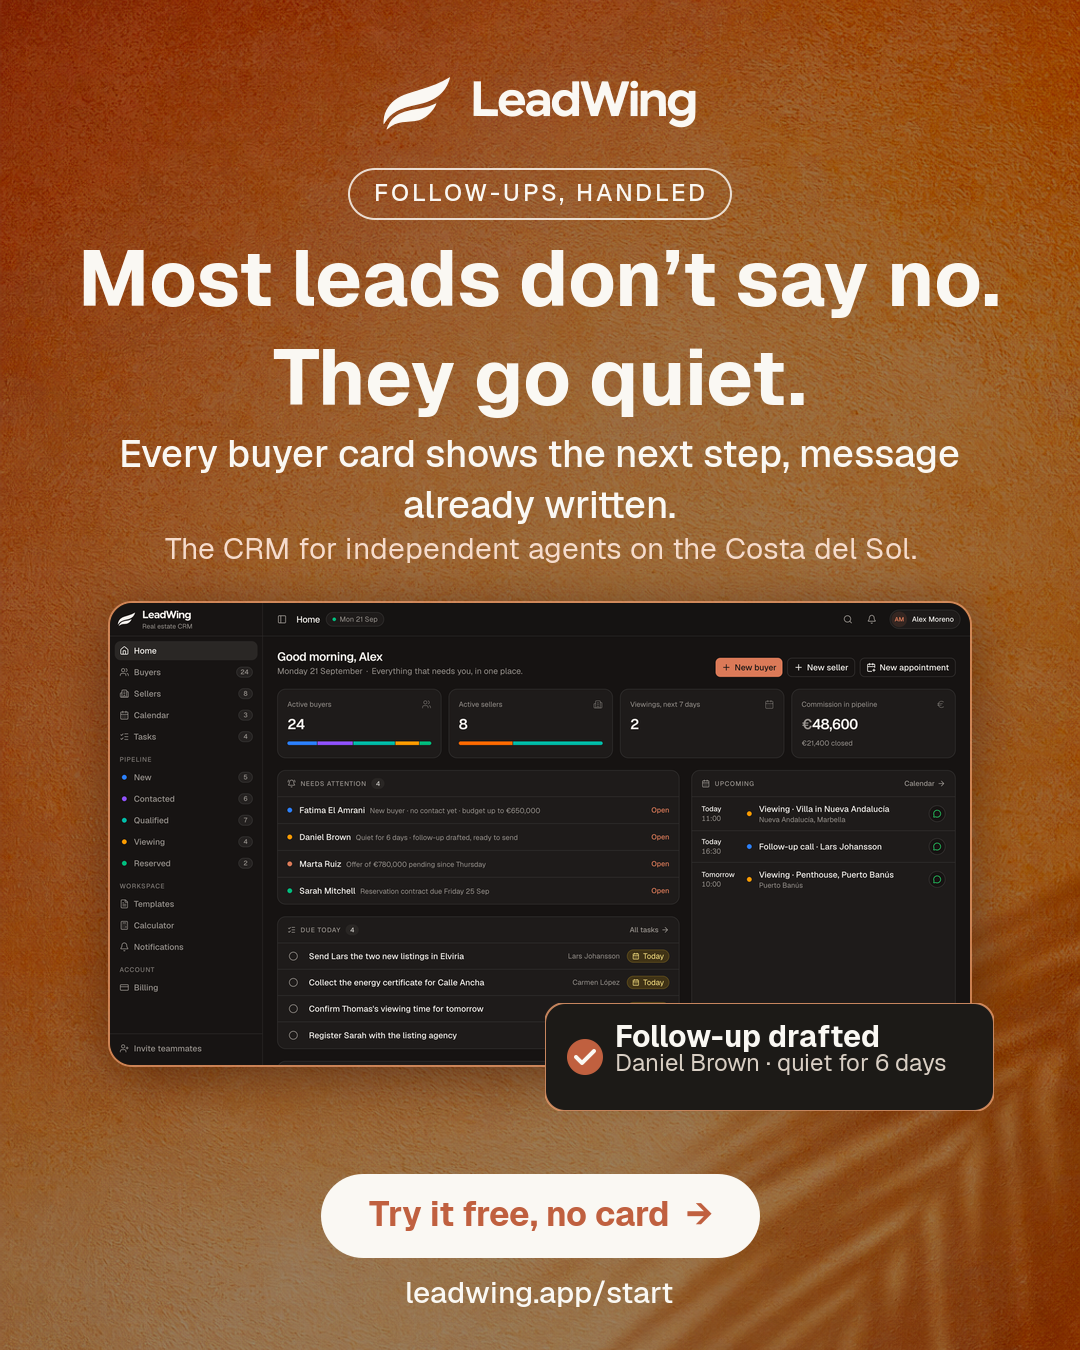
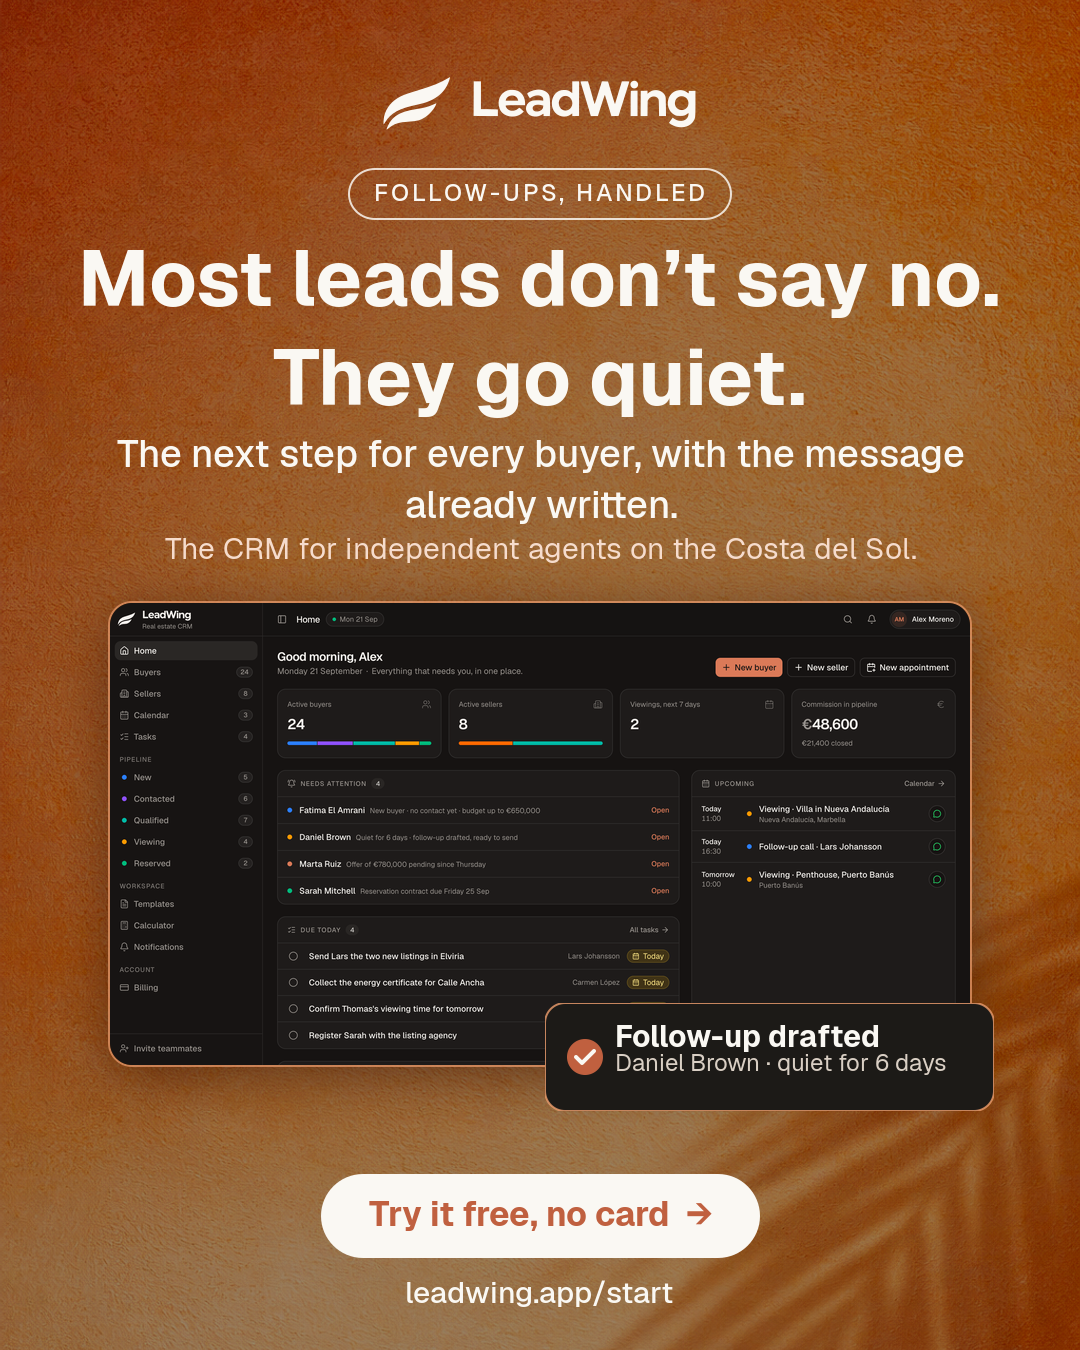
marketing: 2026-09-23 mono digest card, no 'card' in copy
Claude-Session: https://claude.ai/code/session_01C41KF2jdXme4h4ZRPKkHFj

Changed region(s): [[0.0917, 0.3111, 0.8861, 0.4044]]

diff --git a/output/facebook/posts/PLAYBOOK.md b/output/facebook/posts/PLAYBOOK.md
@@ -17,6 +17,8 @@ Read this first on every run. It is the operator's memory: update it when a deci
 - Claims never to make: Google Calendar sync (it is a one-way ICS feed), automatic portal lead capture, "one CRM for every agency", reminders while the app is closed, WhatsApp integration.
 - Product facts: Free = 10 clients, forever, no card. Pro = €29/month or €276/year. Founding = €19/month or €180/year for life for the first 20 paying agents ("Founding Agent #n"). Excel/CSV import with preview and one-click undo; export on every plan; one client card with budget, viewings, offers, documents; a drafted follow-up on every buyer card; tasks; calendar of viewings; templates.
 - Voice: plain, warm, specific, no hype, at most one emoji, no fake testimonials, no invented numbers. Replies in the language the person used.
+- Banned word (founder, 23 Sep): **"card"** — "buyer card", "client card", "every card" are internal product jargon and mean nothing to an agent. Say "every buyer", "each client", "for every buyer, the next step and the message already written". ("No card" meaning no credit card is fine.) The 19 Sep and 23 Sep posts already used it publicly; do not repeat it anywhere new.
+- Digest look (founder, 23 Sep): digest cards must NOT share the product creatives' terracotta background. They are white, black type, hairlines, minimal: `compose-digest.mjs` with `"theme": "mono"` in the spec. Product posts and ads keep the brand background + real screenshot.
 
 ## News digests
 - Search: `GET https://www.searchapi.io/api/v1/search` with `engine=google_news`, `gl=es`, `time_period=last_week`, `link=resolved`, once with `hl=en` and once with `hl=es`; queries like "Costa del Sol property", "Marbella real estate", "Málaga vivienda precios", "alquiler turístico Andalucía", "Estepona Mijas Fuengirola Benalmádena vivienda". Send the key as `Authorization: Bearer`. At most 10 searches per run; check `GET https://www.searchapi.io/api/v1/me` and judge by `current_month_usage` (allowance 10,000; stay under 400 a month).
